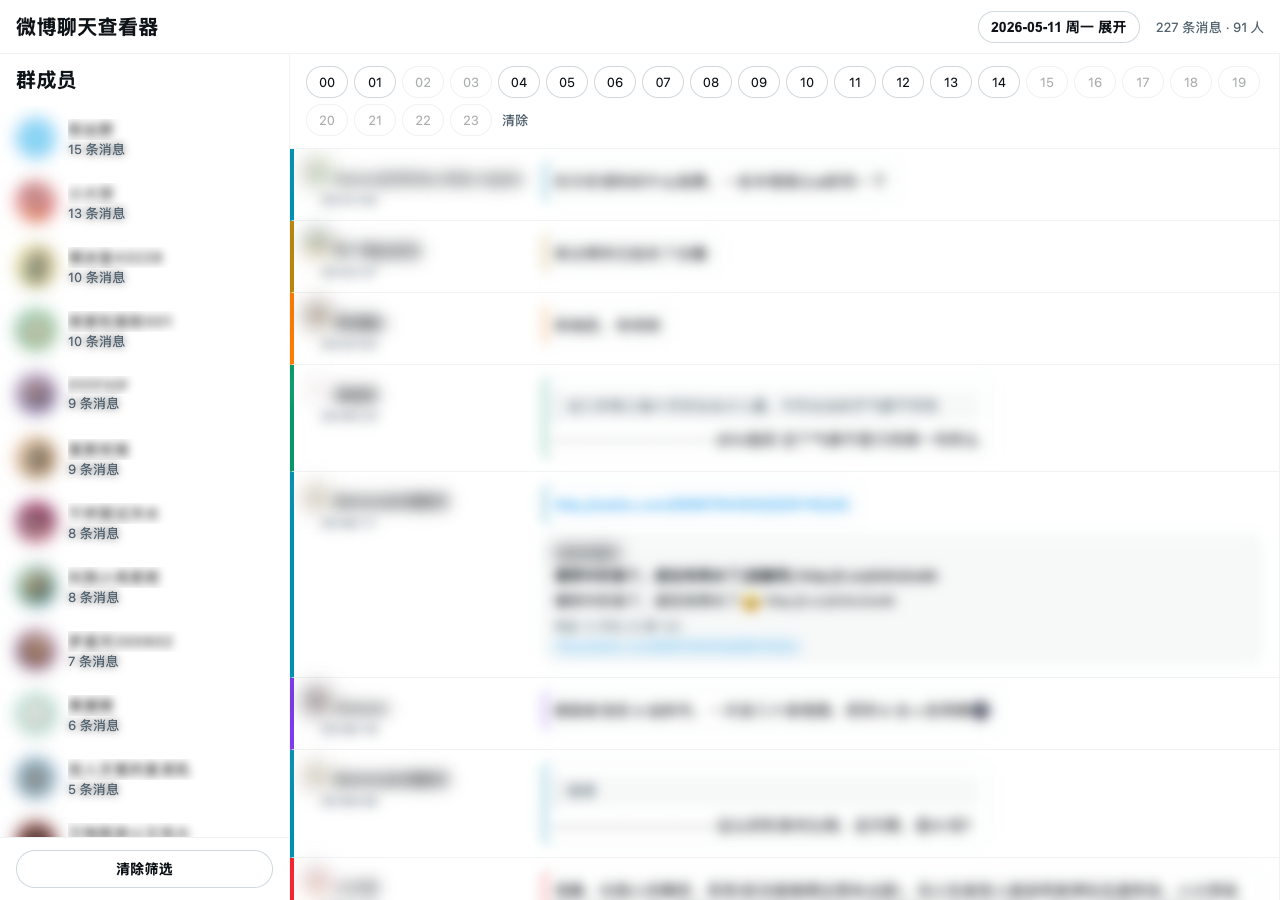
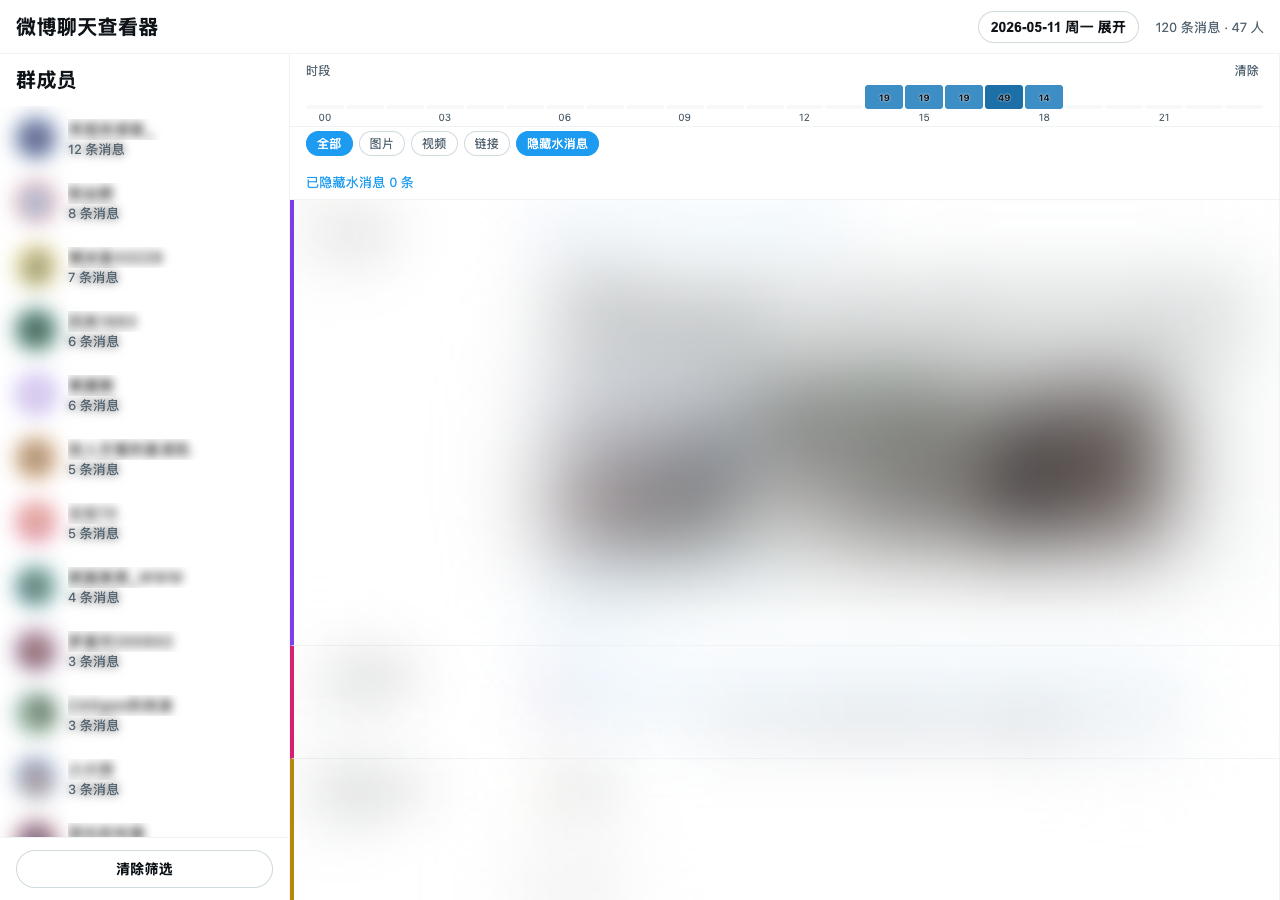
Add noise filter, heatmap counts, and regenerate screenshot
- Add "隐藏水消息" toggle to filter out greeting and red packet messages
- Show message count on each heatmap cell
- Show hidden noise message count in filter status bar
- Regenerate privacy-blurred screenshot with new UI
- Add take-screenshot.js tool

diff --git a/viewer.html b/viewer.html
@@ -59,7 +59,7 @@ body { font-family: -apple-system, BlinkMacSystemFont, "Segoe UI", Roboto, Helve
 /* 小时热力条 */
 .hours-bar { padding: 8px 16px 4px; border-bottom: 1px solid #eff3f4; flex-shrink: 0; }
 .heatmap { display: flex; gap: 2px; align-items: flex-end; }
-.heatmap-cell { flex: 1; min-width: 0; height: 24px; border-radius: 3px; cursor: pointer; transition: all .15s; }
+.heatmap-cell { flex: 1; min-width: 0; height: 24px; border-radius: 3px; cursor: pointer; transition: all .15s; display: flex; align-items: center; justify-content: center; }
 .heatmap-cell:hover { transform: scale(1.08); z-index: 1; }
 .heatmap-cell.active { box-shadow: 0 0 0 2px #1d9bf0; }
 .heatmap-cell.empty { height: 4px; cursor: default; opacity: 0.5; padding: 0; }
@@ -68,6 +68,7 @@ body { font-family: -apple-system, BlinkMacSystemFont, "Segoe UI", Roboto, Helve
 .heatmap-label { flex: 1; min-width: 0; text-align: center; font-size: 10px; color: #536471; line-height: 1; }
 .heatmap-label.show { visibility: visible; }
 .heatmap-label.hide { visibility: hidden; }
+.heatmap-count { font-size: 9px; color: #0f1419; font-weight: 700; line-height: 1; pointer-events: none; text-shadow: 0 0 2px rgba(255,255,255,0.8); }
 .heatmap-header { display: flex; align-items: center; justify-content: space-between; margin-bottom: 6px; }
 .heatmap-title { font-size: 12px; color: #536471; }
 .hours-clear { padding: 0 4px; border: none; background: none; color: #536471; cursor: pointer; font-size: 12px; }
@@ -129,7 +130,8 @@ body { font-family: -apple-system, BlinkMacSystemFont, "Segoe UI", Roboto, Helve
 .share-link:hover { text-decoration: underline; }
 .emoji { font-size: 1.2em; vertical-align: middle; }
 .emoji-unknown { display: inline-block; padding: 1px 5px; margin: 0 1px; border-radius: 4px; background: #f0f2f5; color: #536471; font-size: 12px; vertical-align: middle; }
-.forward-quote { border-left: 3px solid #cfd9de; margin: 4px 0 6px; padding: 6px 10px; background: #f7f9f9; border-radius: 0 6px 6px 0; font-size: 14px; color: #536471; line-height: 1.45; }
+.forward-quote { border-left: 3px solid #1d9bf0; margin: 4px 0 6px; padding: 8px 12px; background: #e8f4fd; border-radius: 0 6px 6px 0; font-size: 14px; color: #536471; line-height: 1.45; }
+.forward-source { display: inline-block; padding: 1px 6px; border-radius: 3px; background: #d9e8f3; font-size: 12px; color: #1d6fa8; }
 .forward-reply { margin-top: 2px; }
 
 @media (max-width: 760px) {
@@ -199,6 +201,7 @@ let selectedDate = '';
 let selectedHours = new Set();
 let selectedUsers = new Set();
 let mediaFilter = 'all';
+let hideNoise = true;   // 过滤「早」问候和「领红包」消息
 let userColorMap = {};
 let calendarOpen = false;
 
@@ -309,10 +312,15 @@ function processForward(text) {
     const { quote, reply } = parseQuote(text);
     if (!quote) return pipe(text);
 
+    // 引用内容为 "微博" 时渲染为来源标签
+    const quoteLabel = quote.trim() === '微博'
+        ? '<span class="forward-source">微博</span>'
+        : null;
+
     // 递归处理嵌套引用
-    const quoteHtml = parseQuote(quote).quote
+    const quoteHtml = quoteLabel || (parseQuote(quote).quote
         ? processForward(quote)  // 嵌套转发
-        : pipe(quote);
+        : pipe(quote));
 
     const replyHtml = pipe(reply || '');
 
@@ -471,7 +479,7 @@ function renderHours() {
         const color = levels[level];
         const active = selectedHours.has(h) ? 'active' : '';
         const empty = count === 0 ? 'empty' : '';
-        bars += `<div class="heatmap-cell ${active} ${empty}" onclick="toggleHour(${h})" style="background:${color}" title="${h}时 · ${count}条"></div>`;
+        bars += `<div class="heatmap-cell ${active} ${empty}" onclick="toggleHour(${h})" style="background:${color}" title="${h}时 · ${count}条">${count > 0 ? '<span class="heatmap-count">' + count + '</span>' : ''}</div>`;
     }
 
     let labels = '';
@@ -511,13 +519,19 @@ function renderMediaBar() {
         { key: 'video', label: '视频' },
         { key: 'link', label: '链接' },
     ];
+    const noiseBtn = `<div class="media-btn ${hideNoise ? 'active' : ''}" onclick="toggleNoise()">隐藏水消息</div>`;
     document.getElementById('mediaBar').innerHTML = types.map(t =>
         `<div class="media-btn ${mediaFilter === t.key ? 'active' : ''}" onclick="setMediaFilter('${t.key}')">${t.label}</div>`
-    ).join('');
+    ).join('') + noiseBtn;
 }
 
 function setMediaFilter(type) {
     mediaFilter = type;
+    renderAll();
+}
+
+function toggleNoise() {
+    hideNoise = !hideNoise;
     renderAll();
 }
 
@@ -535,6 +549,17 @@ function clearUserFilter() {
     renderAll();
 }
 
+// 判断是否为噪音消息（早安问候、纯标点、领红包）
+const NOISE_RE = /^[早\s~～！!。.·:：?？,，…💗❤️💕🥰😘✨🌟⭐💫🌞☀️🌅👍🤝💪🫶]+$/;
+const DOTS_RE = /^[。.·…,，·\s]+$/;
+function isNoise(m) {
+    const c = (m.content || '').trim();
+    if (NOISE_RE.test(c)) return true;
+    if (DOTS_RE.test(c)) return true;
+    if (c.includes('领红包')) return true;
+    return false;
+}
+
 // 获取筛选后的消息
 function getFiltered() {
     return allMessages.filter(m => {
@@ -546,6 +571,7 @@ function getFiltered() {
         if (mediaFilter === 'pics' && (!m.pics || m.pics.length === 0)) return false;
         if (mediaFilter === 'video' && !m.videoUrl && m.content !== '分享视频') return false;
         if (mediaFilter === 'link' && !m.link && !m.share && !m.videoUrl) return false;
+        if (hideNoise && isNoise(m)) return false;
         return true;
     });
 }
@@ -663,6 +689,16 @@ function renderAll() {
     const mediaLabels = { pics: '图片', video: '视频', link: '链接' };
     if (mediaFilter !== 'all') {
         parts.push('类型: ' + (mediaLabels[mediaFilter] || mediaFilter));
+    }
+    if (hideNoise) {
+        const noiseCount = allMessages.filter(m => {
+            if (m.date !== selectedDate) return false;
+            if (selectedHours.size > 0 && !selectedHours.has(new Date(m.timestamp).getHours())) return false;
+            if (selectedUsers.size > 0 && !selectedUsers.has(m.user)) return false;
+            if (!isNoise(m)) return false;
+            return true;
+        }).length;
+        parts.push(`已隐藏水消息 ${noiseCount} 条`);
     }
     bar.innerHTML = parts.map(p => `<span>${p}</span>`).join(' · ');
     bar.className = 'filter-bar' + (parts.length ? ' show' : '');

diff --git a/take-screenshot.js b/take-screenshot.js
@@ -1,0 +1,34 @@
+const puppeteer = require('puppeteer');
+const path = require('path');
+
+(async () => {
+    const browser = await puppeteer.launch({
+        headless: 'new',
+        executablePath: '/Applications/Google Chrome.app/Contents/MacOS/Google Chrome',
+        args: ['--no-sandbox', '--disable-setuid-sandbox', '--window-size=1280,900'],
+    });
+    const page = await browser.newPage();
+    await page.setViewport({ width: 1280, height: 900 });
+    await page.goto('http://localhost:3456', { waitUntil: 'networkidle2', timeout: 30000 });
+    await page.waitForSelector('.msg-item', { timeout: 10000 });
+    await new Promise(r => setTimeout(r, 2000));
+
+    // Heavy redaction: blur all user content
+    await page.addStyleTag({ content: `
+        .msg-item * { filter: blur(20px) !important; user-select: none !important; pointer-events: none !important; }
+        .msg-item .msg-link { filter: blur(25px) !important; }
+        .msg-item img { filter: blur(25px) !important; }
+        .msg-item .forward-quote * { filter: blur(20px) !important; }
+        .share-card * { filter: blur(10px) !important; }
+        .forward-quote * { filter: blur(10px) !important; }
+        .user-avatar, .user-avatar img { filter: blur(10px) !important; }
+        .user-item { color: transparent !important; text-shadow: 0 0 10px rgba(0,0,0,0.6) !important; }
+        /* Keep structural elements visible */
+        .nav-title, .calendar, .hour-bar, .sidebar-title, .media-bar, .filter-bar { filter: none !important; color: inherit !important; text-shadow: none !important; }
+    ` });
+    await new Promise(r => setTimeout(r, 500));
+
+    await page.screenshot({ path: path.join(__dirname, 'screenshot.png'), fullPage: false });
+    console.log('Screenshot saved');
+    await browser.close();
+})();

diff --git a/auto-archive-simple.js b/auto-archive-simple.js
@@ -188,6 +188,15 @@ const USER_SCRIPT = `
         const msgList = Array.isArray(msgs) ? msgs : (Array.isArray(data.list) ? data.list : []);
         let added = 0;
         for (const m of msgList) {
+            // DEBUG: 打印包含"微博"的原始消息结构
+            const debugContent = (m.content ?? m.text ?? '').replace(/[\r\n]+/g, ' ');
+            if (debugContent.includes('微博')) {
+                console.log('[DEBUG] raw msg keys:', Object.keys(m).join(', '));
+                console.log('[DEBUG] content:', debugContent.substring(0, 200));
+                console.log('[DEBUG] url_objects:', JSON.stringify(m.url_objects).substring(0, 300));
+                console.log('[DEBUG] object:', JSON.stringify(m.object).substring(0, 200));
+                console.log('[DEBUG] page_id:', m.page_id, '| url:', m.url, '| short_url:', m.short_url);
+            }
             const n = normalizeMessage(m);
             if (n) { messages.push(n); window.__ARCHIVER_STATE__.messages.push(n); added++; }
         }
@@ -632,6 +641,16 @@ async function main() {
 
             let added = 0;
             for (const m of msgList) {
+                // DEBUG: 打印包含"微博"的原始消息结构
+                const debugContent = (m.content ?? m.text ?? '').replace(/[\r\n]+/g, ' ');
+                if (debugContent.includes('微博')) {
+                    console.log('[DEBUG] raw msg keys:', Object.keys(m).join(', '));
+                    console.log('[DEBUG] content:', debugContent.substring(0, 200));
+                    console.log('[DEBUG] url_objects:', JSON.stringify(m.url_objects).substring(0, 500));
+                    console.log('[DEBUG] object:', JSON.stringify(m.object).substring(0, 300));
+                    console.log('[DEBUG] page_id:', m.page_id, '| url:', m.url, '| short_url:', m.short_url);
+                    console.log('[DEBUG] type:', m.type, '| msg_type:', m.msg_type, '| media_type:', m.media_type);
+                }
                 const n = normalizeMessage(m);
                 if (n && !messageIds.has(String(n.id))) {
                     messageIds.add(String(n.id));

diff --git a/README.md b/README.md
@@ -13,9 +13,11 @@
 - 按日期分组导出为 JSON
 - 支持定时任务（macOS launchd）
 - 支持无头模式（后台运行）
-- 本地 Web 查看器（支持日历、小时筛选、用户筛选）
-- 自动提取图片（通过 fids）
+- 本地 Web 查看器（支持日历、时段热力图、用户筛选、媒体类型筛选）
+- 自动提取图片（通过 fids），分享卡片图片通过代理绕过防盗链
 - 微博分享卡片展示（标题、作者、图片、转评赞）
+- 视频链接和附件 URL 展示
+- 转发引用区块高亮显示
 - 用户头像显示
 - Emoji 渲染为 Unicode
 